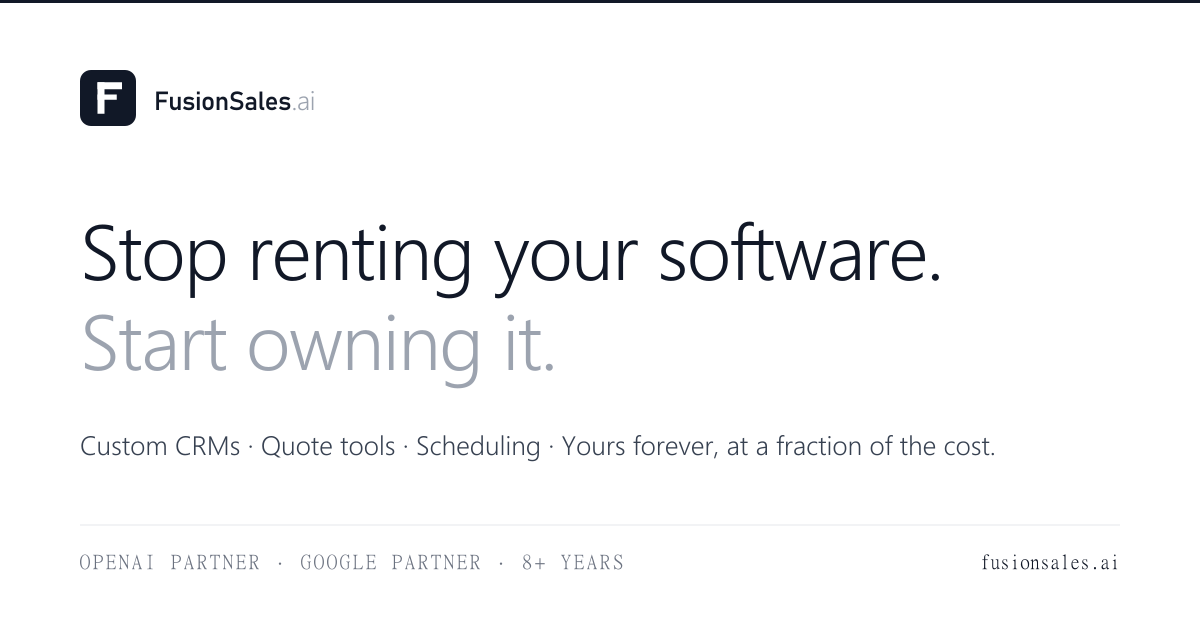
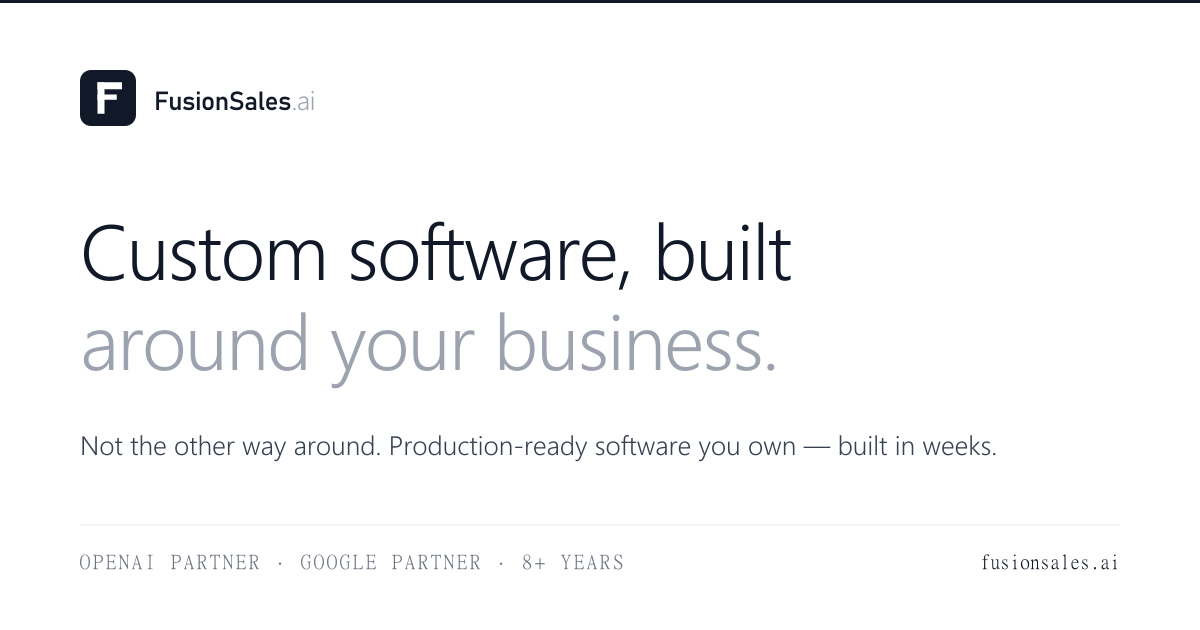
Integrate the StoryBrand messaging: AI is HOW we build, not WHAT we sell
Reframes the site around the core distinction — customers aren't buying AI,
they're buying custom business software built around how they work; AI is just
how we build it faster, with more features, at lower cost. That makes it MORE
theirs, not less.

- Hero: villain-naming headline "Custom software built around your business.
  Not the other way around." + a subhead that states the model (AI-assisted
  development, production-ready in weeks, yours to own).
- NEW "Big Idea" section (#2, right after the hero): "We don't build AI
  software. We use AI to build better software." With a "what you're NOT buying"
  vs "what you actually get" contrast (real source code, databases, secure APIs,
  cloud, tests, ownership) and the pillar "AI accelerates the build — it doesn't
  replace the engineering." Relocates "stop renting → start owning" here.
- The plan: simplified the process to the 3-step StoryBrand plan —
  Discover → Design & Build → Launch & Grow.
- Propagated the positioning to SEO + AI-search surfaces: home title/description,
  OG + Twitter cards, the regenerated OG share image, and llms.txt.

Verified: 110 routes, 0 failures; new messaging present, old tagline cleared
from home meta.

Changed region(s): [[0.0617, 0.3317, 0.7708, 0.6333], [0.0617, 0.6937, 0.8325, 0.7238]]

diff --git a/src/FusionSalesWebsite.jsx b/src/FusionSalesWebsite.jsx
@@ -182,27 +182,21 @@ const FEATURES = [
 const PHASES = [
   {
     n: '1',
-    title: 'Consultation',
-    body: 'We learn your business goals and find the automation opportunities. No vague "requirements gathering" — we watch how your team actually works, then write a one-page plan you approve before we touch code.',
+    title: 'Discover',
+    body: 'We learn how your business actually works — watching how your team operates, not gathering vague "requirements." You approve a one-page plan before we touch code, so nothing about the build is a surprise.',
     time: 'Week 1',
   },
   {
     n: '2',
-    title: 'AI Solution Design',
-    body: 'We design a custom AI system tailored to your needs — the workflows, the screens, where AI fits and where it doesn’t. You see a clickable version by week three, not a spec you have to imagine.',
-    time: 'Weeks 1–3',
+    title: 'Design & Build',
+    body: 'Our engineers build software around your exact workflows using AI-assisted development. You see a clickable version by week three; then we wire it into your existing tools and test it against real cases — your team trains alongside it, so there’s no adoption tax at launch.',
+    time: 'Weeks 1–5',
   },
   {
     n: '3',
-    title: 'Integration & Testing',
-    body: 'We embed it into your existing tools and workflows, then test it against real cases so it performs from day one. Your team trains alongside the build — no adoption tax at launch.',
-    time: 'Weeks 3–5',
-  },
-  {
-    n: '4',
-    title: 'Support & Optimization',
-    body: 'You go live — most builds around week six, work that used to take six to nine months. Then we stay on: ongoing support and optimization to keep maximizing your AI efficiency as you grow.',
-    time: 'Wk 6 +',
+    title: 'Launch & Grow',
+    body: 'You go live — most builds around week six — with secure, production-ready software your business owns outright. Then we stay on: support and optimization to keep expanding it for years to come.',
+    time: 'Week 6 +',
   },
 ];
 
@@ -1953,17 +1947,18 @@ export default function FusionSalesWebsite() {
               </Reveal>
 
               <Reveal delay={80}>
-                <h1 className="font-display text-4xl md:text-5xl lg:text-6xl xl:text-7xl font-light leading-[1.05] tracking-tight text-gray-900">
-                  Stop renting your software.
+                <h1 className="font-display text-4xl md:text-5xl lg:text-6xl font-light leading-[1.05] tracking-tight text-gray-900">
+                  Custom software built around your business.
                   <br className="hidden md:block" />
-                  <span className="text-gray-500"> Start owning it.</span>
+                  <span className="text-gray-500"> Not the other way around.</span>
                 </h1>
               </Reveal>
 
               <Reveal delay={160}>
                 <p className="mt-8 text-lg md:text-xl text-gray-800 leading-relaxed">
-                  Custom CRMs, quote tools, and scheduling — built for your business in weeks, not years.
-                  Yours forever. At a fraction of what custom software used to cost.
+                  We build custom business software around exactly how your team already works — then hand you
+                  the keys. AI-assisted development means secure, production-ready apps in weeks, not months,
+                  without enterprise prices. Real software. Yours to own.
                 </p>
               </Reveal>
 
@@ -2025,7 +2020,78 @@ export default function FusionSalesWebsite() {
         </div>
       </section>
 
-      {/* ===== HOW YOU CAN USE IT — 10 ideas teaser (high priority, very visible, #2) ===== */}
+      {/* ===== THE BIG IDEA — AI is HOW we build, not WHAT we sell (#2) ===== */}
+      <section className="border-b border-gray-200 bg-white">
+        <div className="max-w-6xl mx-auto px-4 py-24 md:py-28">
+          <Reveal>
+            <p className="text-xs uppercase tracking-[0.2em] text-gray-500 mb-8">The one thing to understand</p>
+            <h2 className="font-display text-3xl md:text-5xl lg:text-6xl font-light leading-[1.08] tracking-tight max-w-4xl">
+              We don&rsquo;t build AI software.
+              <br className="hidden md:block" />
+              <span className="text-brand-600"> We use AI to build better software.</span>
+            </h2>
+            <p className="mt-8 text-lg md:text-xl text-gray-800 leading-relaxed max-w-3xl">
+              You&rsquo;re not buying artificial intelligence. You&rsquo;re buying custom business software &mdash;
+              built around exactly how you already work. AI is simply <span className="text-gray-900 font-medium">how</span>{' '}
+              we build it: faster, with more features, at a fraction of what custom used to cost. That makes the
+              software <span className="text-gray-900 font-medium">more</span> yours, not less.
+            </p>
+          </Reveal>
+
+          <div className="mt-16 grid md:grid-cols-2 gap-6">
+            <Reveal>
+              <div className="bg-gray-50 border border-gray-200 rounded-2xl p-8 md:p-10 h-full">
+                <p className="text-[11px] uppercase tracking-[0.25em] text-gray-500 mb-6 font-medium">What you&rsquo;re not buying</p>
+                <ul className="space-y-4">
+                  {[
+                    'A chatbot bolted onto your website',
+                    'A generic "AI tool" everyone else also rents',
+                    "Someone else's platform you'll never own",
+                  ].map((t) => (
+                    <li key={t} className="flex gap-3 items-start">
+                      <X className="w-5 h-5 text-gray-400 flex-shrink-0 mt-0.5" strokeWidth={1.5} />
+                      <span className="text-gray-700 leading-relaxed">{t}</span>
+                    </li>
+                  ))}
+                </ul>
+              </div>
+            </Reveal>
+            <Reveal delay={120}>
+              <div className="bg-gray-900 text-white rounded-2xl p-8 md:p-10 h-full">
+                <p className="text-[11px] uppercase tracking-[0.25em] text-brand-400 mb-6 font-medium">What you actually get</p>
+                <p className="text-gray-300 mb-6 leading-relaxed">
+                  Real production software you own outright &mdash; the same engineering enterprises pay for, just built faster:
+                </p>
+                <div className="grid grid-cols-1 sm:grid-cols-2 gap-x-6 gap-y-3">
+                  {[
+                    'Real source code',
+                    'Databases & secure APIs',
+                    'Authentication & security',
+                    'Cloud deployment',
+                    'Tests & documentation',
+                    'Yours to keep & extend',
+                  ].map((t) => (
+                    <div key={t} className="flex gap-2.5 items-center">
+                      <Check className="w-4 h-4 text-brand-400 flex-shrink-0" strokeWidth={2} />
+                      <span className="text-sm text-gray-200">{t}</span>
+                    </div>
+                  ))}
+                </div>
+              </div>
+            </Reveal>
+          </div>
+
+          <Reveal>
+            <p className="mt-12 text-base md:text-lg text-gray-700 max-w-3xl leading-relaxed">
+              <span className="text-gray-900 font-medium">AI accelerates the build &mdash; it doesn&rsquo;t replace the engineering.</span>{' '}
+              The result is the same thing enterprises pay half a million for: real, owned software, built around you.
+              You just stop renting your tools and start owning them.
+            </p>
+          </Reveal>
+        </div>
+      </section>
+
+      {/* ===== HOW YOU CAN USE IT — 10 ideas teaser (very visible, now #3) ===== */}
       <HomeIdeas />
 
       {/* ===== INTEGRATIONS — we plug into the stack they already run ===== */}
@@ -2388,18 +2454,21 @@ export default function FusionSalesWebsite() {
       <section className="border-b border-gray-200">
         <div className="max-w-6xl mx-auto px-4 py-24">
           <Reveal>
-            <p className="text-xs uppercase tracking-[0.2em] text-gray-500 mb-6">Process</p>
-            <h2 className="font-display text-3xl md:text-5xl font-light leading-tight tracking-tight max-w-3xl mb-16">
-              How we do this.
+            <p className="text-xs uppercase tracking-[0.2em] text-gray-500 mb-6">The plan</p>
+            <h2 className="font-display text-3xl md:text-5xl font-light leading-tight tracking-tight max-w-3xl mb-6">
+              Three steps to software that fits.
             </h2>
+            <p className="text-lg text-gray-700 max-w-2xl mb-16 leading-relaxed">
+              No mystery, no enterprise runaround. You always know where the build is and what happens next.
+            </p>
           </Reveal>
 
-          <div className="grid md:grid-cols-4 gap-10">
+          <div className="grid md:grid-cols-3 gap-10">
             {PHASES.map((p, idx) => (
               <Reveal key={p.n} delay={idx * 100}>
                 <div className="border-t border-gray-900 pt-8">
                   <div className="flex items-baseline justify-between mb-6">
-                    <span className="text-sm text-gray-500">Phase {p.n}</span>
+                    <span className="text-sm text-gray-500">Step {p.n}</span>
                     <span className="text-xs uppercase tracking-wider text-gray-500">{p.time}</span>
                   </div>
                   <h3 className="text-xl text-gray-900 mb-3">{p.title}</h3>

diff --git a/index.html b/index.html
@@ -4,8 +4,8 @@
     <meta charset="UTF-8" />
     <meta name="viewport" content="width=device-width, initial-scale=1.0" />
 
-    <title>FusionSales.ai — Own the software your business runs on</title>
-    <meta name="description" content="Stop renting your software. Start owning it. Custom-built CRMs, quote tools, and scheduling — at a fraction of what you pay today. Yours forever. It's finally possible." />
+    <title>FusionSales.ai — Custom software built around your business</title>
+    <meta name="description" content="Custom business software built around how you actually work — not the other way around. FusionSales.ai uses AI-assisted development to ship secure, production-ready apps in weeks, not months. Real code, yours to own, at a fraction of enterprise cost." />
     <meta name="theme-color" content="#111827" />
 
     <!-- Let Google/AI search show full snippets + large image previews (propagates to every prerendered page) -->
@@ -22,18 +22,18 @@
     <meta property="og:type" content="website" />
     <meta property="og:site_name" content="FusionSales.ai" />
     <meta property="og:url" content="https://fusionsales.ai/" />
-    <meta property="og:title" content="Stop renting your software. Start owning it." />
-    <meta property="og:description" content="Custom-built CRMs, quote tools, and scheduling — at a fraction of what you pay today. Yours forever. It's finally possible." />
+    <meta property="og:title" content="Custom software built around your business. Not the other way around." />
+    <meta property="og:description" content="We don't sell AI — we use it to build better software, faster. Secure, production-ready apps you own outright, in weeks not months, at a fraction of enterprise cost." />
     <meta property="og:image" content="https://fusionsales.ai/og.png" />
     <meta property="og:image:type" content="image/png" />
     <meta property="og:image:width" content="1200" />
     <meta property="og:image:height" content="630" />
-    <meta property="og:image:alt" content="FusionSales.ai — Stop renting your software. Start owning it." />
+    <meta property="og:image:alt" content="FusionSales.ai — custom software built around your business, not the other way around." />
 
     <!-- Twitter -->
     <meta name="twitter:card" content="summary_large_image" />
-    <meta name="twitter:title" content="Stop renting your software. Start owning it." />
-    <meta name="twitter:description" content="Custom-built CRMs, quote tools, and scheduling — yours forever, at a fraction of the cost." />
+    <meta name="twitter:title" content="Custom software built around your business." />
+    <meta name="twitter:description" content="We use AI to build better software — secure, production-ready apps you own outright, in weeks not months." />
     <meta name="twitter:image" content="https://fusionsales.ai/og.png" />
 
     <!-- Schema.org Organization -->

diff --git a/scripts/prerender.js b/scripts/prerender.js
@@ -187,12 +187,12 @@ function metaTagsFor(routeInfo) {
   let extraMeta = '';
 
   if (kind === 'home') {
-    title = 'FusionSales.ai — Own the software your business runs on';
+    title = 'FusionSales.ai — Custom software built around your business';
     description =
-      "Stop renting your software. Start owning it. Custom-built CRMs, quote tools, and scheduling — at a fraction of what you pay today. Yours forever. It's finally possible.";
-    ogTitle = 'Stop renting your software. Start owning it.';
+      "Custom business software built around how you actually work — not the other way around. FusionSales.ai uses AI-assisted development to ship secure, production-ready apps in weeks, not months. Real code, yours to own, at a fraction of enterprise cost.";
+    ogTitle = 'Custom software built around your business. Not the other way around.';
     ogDescription =
-      "Custom-built CRMs, quote tools, and scheduling — at a fraction of what you pay today. Yours forever. It's finally possible.";
+      "We don't sell AI — we use it to build better software, faster. Secure, production-ready apps you own outright, in weeks not months, at a fraction of enterprise cost.";
     schemas.push(ORG_SCHEMA, WEBSITE_SCHEMA, SERVICE_SCHEMA, FAQ_SCHEMA);
   } else if (kind === 'insights-index') {
     title = 'Insights — FusionSales.ai';

diff --git a/src/components/HeroVideo.jsx b/src/components/HeroVideo.jsx
@@ -77,7 +77,7 @@ export default function HeroVideo({
           autoPlay
           playsInline
           preload="metadata"
-          aria-label="FusionSales.ai explainer — stop renting your software, start owning it"
+          aria-label="FusionSales.ai explainer — custom software built around your business, not the other way around"
         />
         {needsTap && (
           <button